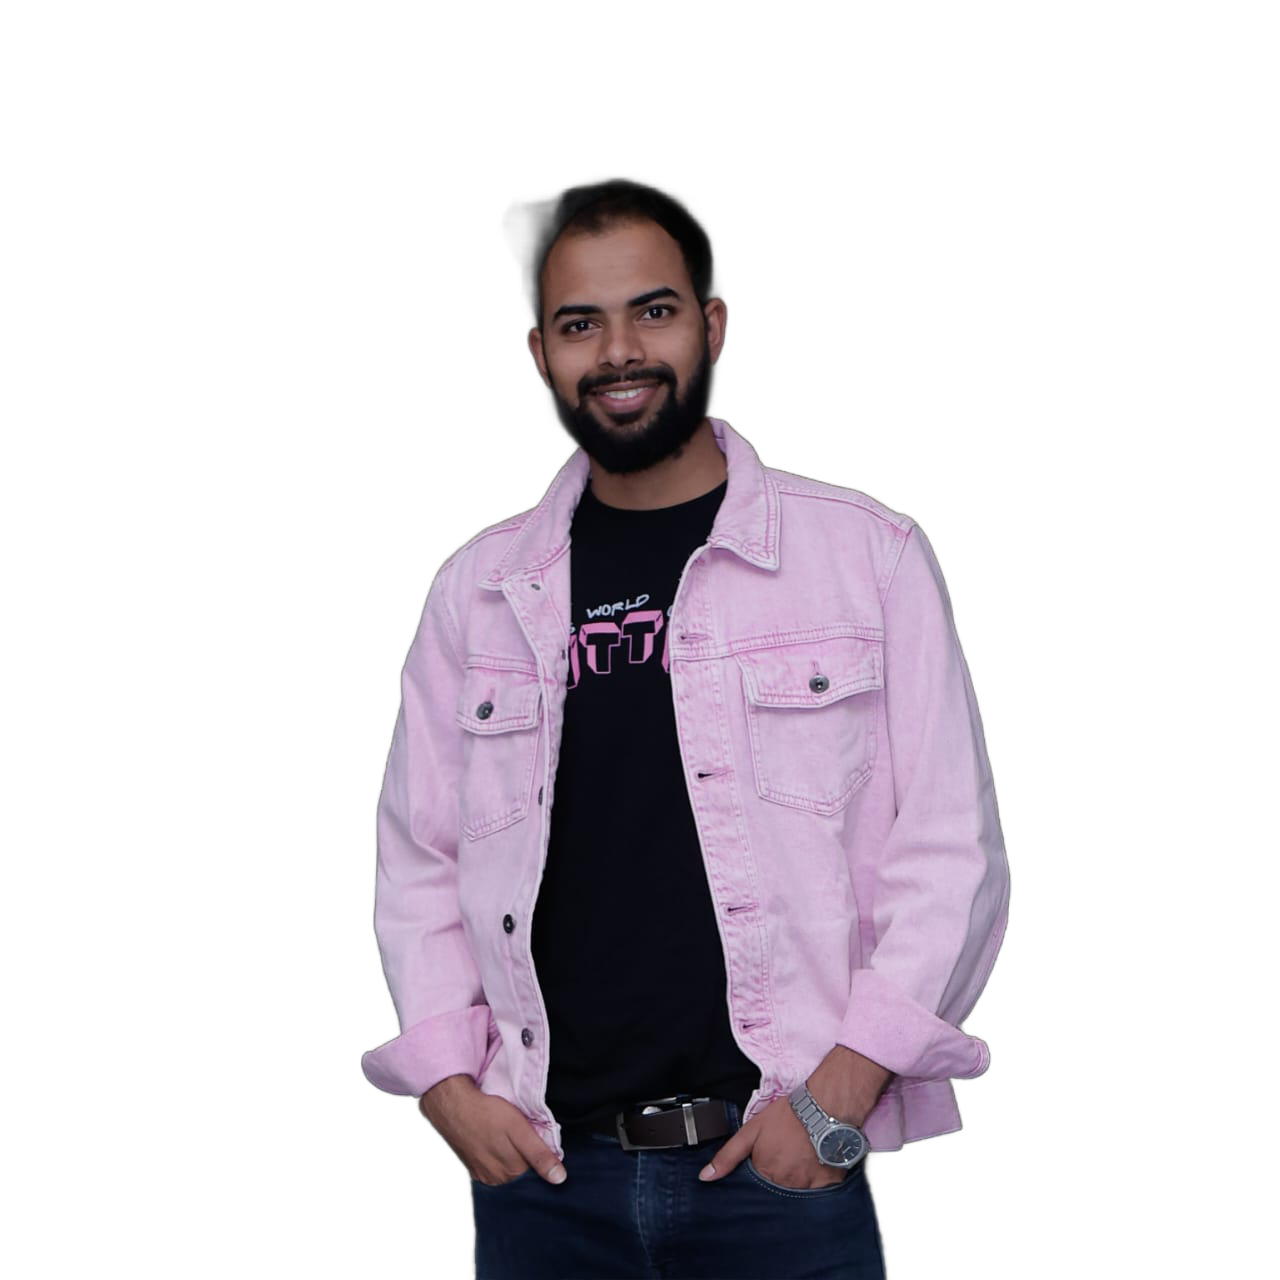
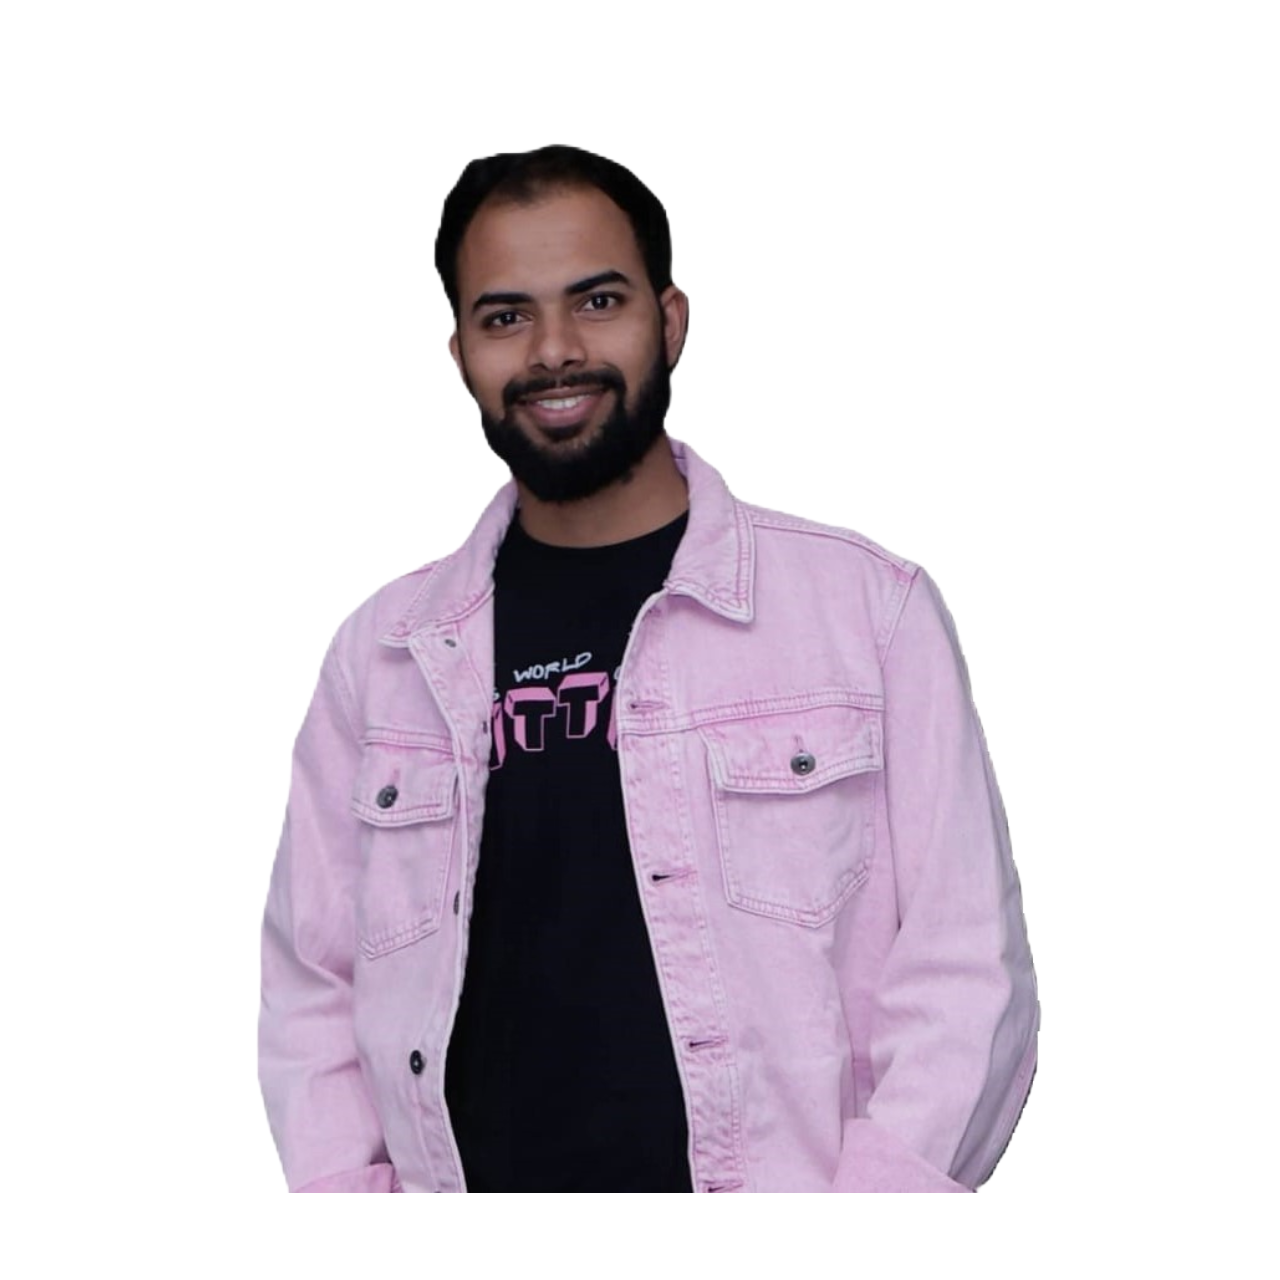
updated Profile png

Changed region(s): [[0.1875, 0.0938, 0.8125, 1.0]]

diff --git a/src/pages/landing/FiveIconsCircle.jsx b/src/pages/landing/FiveIconsCircle.jsx
@@ -4,7 +4,7 @@ import Icon2 from "../../assets/svgs/material-symbols-light_work.svg";
 import Icon3 from "../../assets/svgs/mdi_location.svg";
 import Icon4 from "../../assets/svgs/vaadin_office.svg";
 import Icon5 from "../../assets/svgs/wpf_like.svg";
-import Sejal from "../../assets/images/Subject 1.png";
+import Avinash from "../../assets/images/Subject 1.png";
 
 const FiveIconsCircle = () => {
   const [hoveredIndex, setHoveredIndex] = useState(-1); // -1 means no icon is hovered
@@ -91,9 +91,10 @@ const FiveIconsCircle = () => {
           </div>
         </div>
       ))}
-      <div className="m-10 h-56 w-56 md:h-72 md:w-72 bg-[#CACACA] rounded-full mt-12 mx-12 relative">
-        <img className="mx-auto h-56 md:h-[19rem]" src={Sejal} alt="" />
-      </div>
+      <div className="relative m-10 h-56 w-56 md:h-72 md:w-72 bg-[#CACACA] rounded-full mt-12 mx-auto flex items-center justify-center">
+  <img className="h-52 w-52 md:h-[18rem] md:w-[18rem] rounded-full object-cover" src={Avinash} alt="Profile" />
+</div>
+
     </div>
   );
 };
